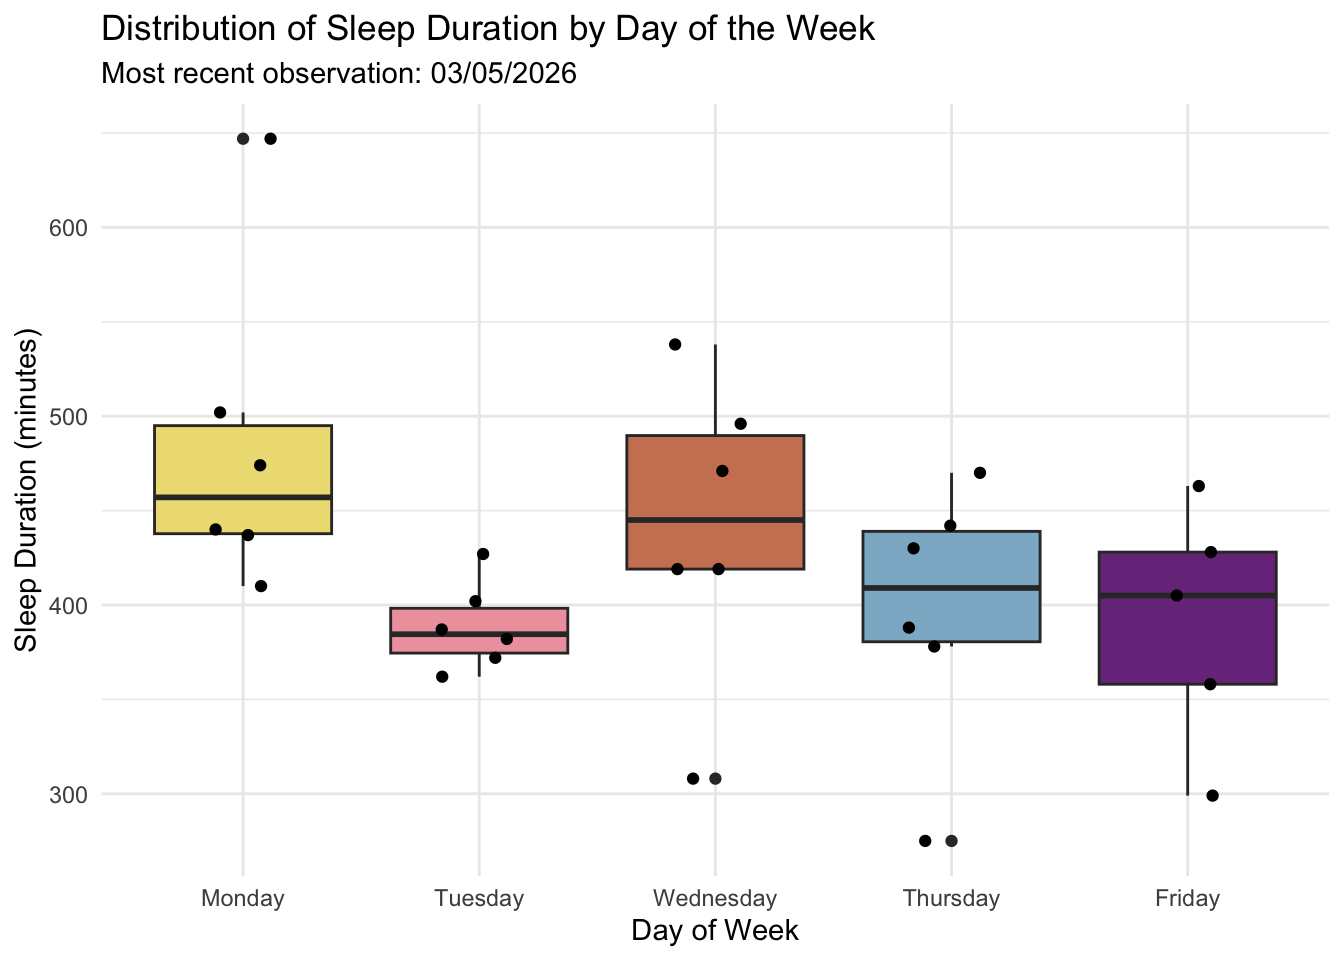
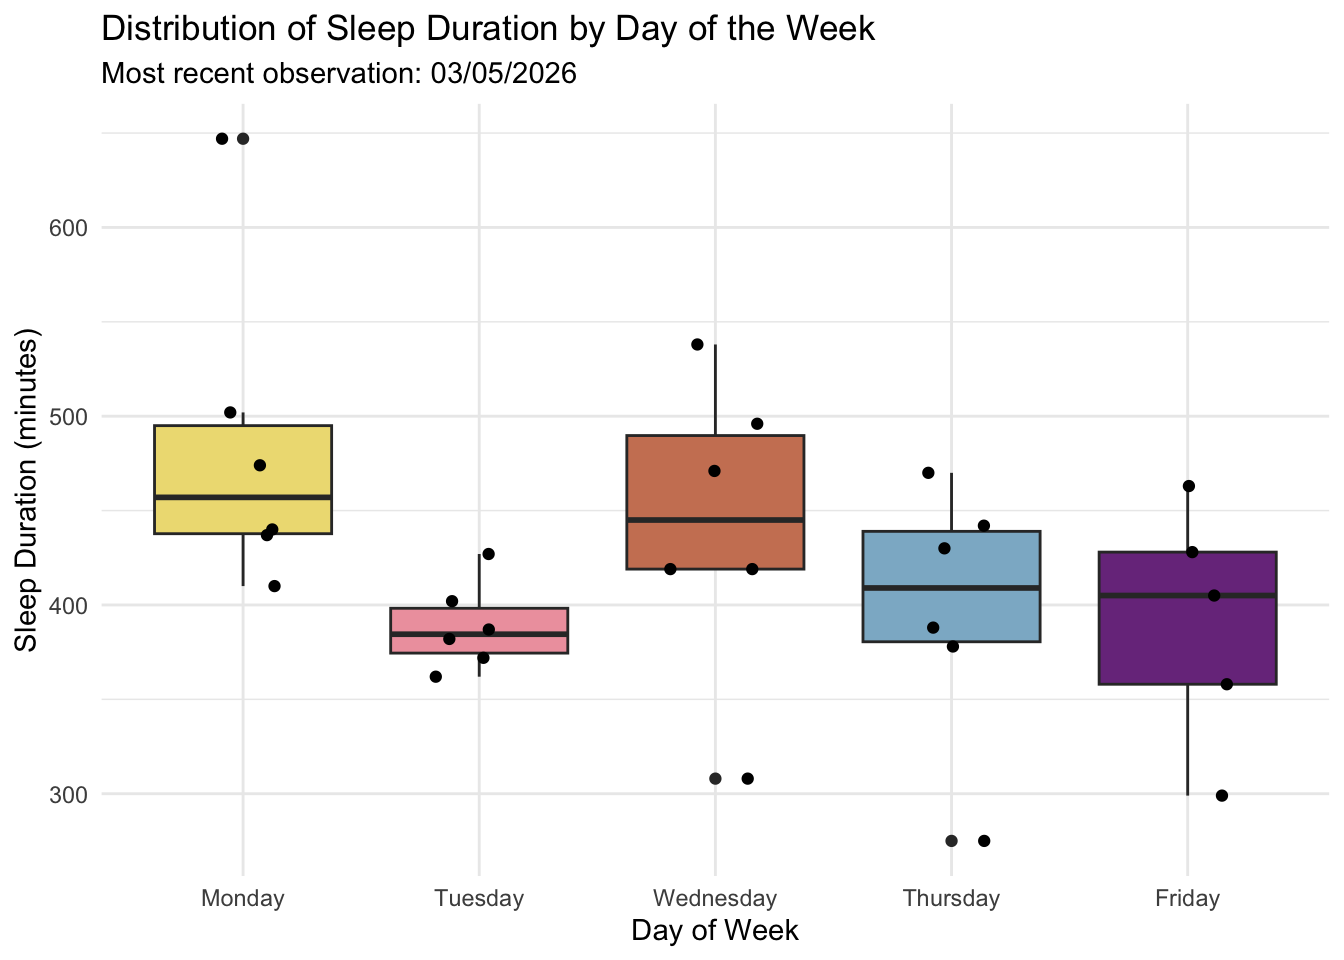
added a table of contents to the upper right corner

diff --git a/code/homework-03-script.html b/code/homework-03-script.html
@@ -71,6 +71,7 @@ pre > code.sourceCode > span > a:first-child::before { text-decoration: underlin
 <script src="homework-03-script_files/libs/bootstrap/bootstrap.min.js"></script>
 <link href="homework-03-script_files/libs/bootstrap/bootstrap-icons.css" rel="stylesheet">
 <link href="homework-03-script_files/libs/bootstrap/bootstrap-81267100e462c21b3d6c0d5bf76a3417.min.css" rel="stylesheet" append-hash="true" id="quarto-bootstrap" data-mode="light">
+<style>html{ scroll-behavior: smooth; }</style>
 
   <script src="https://cdnjs.cloudflare.com/polyfill/v3/polyfill.min.js?features=es6"></script>
   <script src="https://cdn.jsdelivr.net/npm/mathjax@3/es5/tex-chtml-full.js" type="text/javascript"></script>
@@ -104,10 +105,49 @@ window.Quarto = {
 
 </head>
 
-<body class="fullcontent quarto-light">
+<body class="quarto-light">
 
 <div id="quarto-content" class="page-columns page-rows-contents page-layout-article">
-
+<div id="quarto-margin-sidebar" class="sidebar margin-sidebar">
+  <nav id="TOC" role="doc-toc" class="toc-active">
+    <h2 id="toc-title">Table of contents</h2>
+   
+  <ul>
+  <li><a href="#part-1.-set-up-tasks" id="toc-part-1.-set-up-tasks" class="nav-link active" data-scroll-target="#part-1.-set-up-tasks">Part 1. Set up tasks</a></li>
+  <li><a href="#part-2.-problems" id="toc-part-2.-problems" class="nav-link" data-scroll-target="#part-2.-problems">Part 2. Problems</a>
+  <ul class="collapse">
+  <li><a href="#problem-1.-slough-soil-salinity" id="toc-problem-1.-slough-soil-salinity" class="nav-link" data-scroll-target="#problem-1.-slough-soil-salinity">Problem 1. Slough soil salinity</a>
+  <ul class="collapse">
+  <li><a href="#a." id="toc-a." class="nav-link" data-scroll-target="#a.">a.</a></li>
+  <li><a href="#b." id="toc-b." class="nav-link" data-scroll-target="#b.">b.</a></li>
+  <li><a href="#c." id="toc-c." class="nav-link" data-scroll-target="#c.">c.</a></li>
+  <li><a href="#d." id="toc-d." class="nav-link" data-scroll-target="#d.">d.</a></li>
+  <li><a href="#e." id="toc-e." class="nav-link" data-scroll-target="#e.">e.</a></li>
+  <li><a href="#f." id="toc-f." class="nav-link" data-scroll-target="#f.">f.</a></li>
+  </ul></li>
+  <li><a href="#problem-2.-personal-data" id="toc-problem-2.-personal-data" class="nav-link" data-scroll-target="#problem-2.-personal-data">Problem 2. Personal data</a>
+  <ul class="collapse">
+  <li><a href="#a.-1" id="toc-a.-1" class="nav-link" data-scroll-target="#a.-1">a.</a></li>
+  <li><a href="#b.-1" id="toc-b.-1" class="nav-link" data-scroll-target="#b.-1">b.</a></li>
+  </ul></li>
+  <li><a href="#problem-3.-affective-visualization" id="toc-problem-3.-affective-visualization" class="nav-link" data-scroll-target="#problem-3.-affective-visualization">Problem 3. Affective visualization</a>
+  <ul class="collapse">
+  <li><a href="#a.-2" id="toc-a.-2" class="nav-link" data-scroll-target="#a.-2">a.</a></li>
+  <li><a href="#b.-2" id="toc-b.-2" class="nav-link" data-scroll-target="#b.-2">b.</a></li>
+  <li><a href="#c.-1" id="toc-c.-1" class="nav-link" data-scroll-target="#c.-1">c.</a></li>
+  <li><a href="#d.-1" id="toc-d.-1" class="nav-link" data-scroll-target="#d.-1">d.</a></li>
+  <li><a href="#e.-1" id="toc-e.-1" class="nav-link" data-scroll-target="#e.-1">e.</a></li>
+  </ul></li>
+  <li><a href="#problem-4.-statistical-critique" id="toc-problem-4.-statistical-critique" class="nav-link" data-scroll-target="#problem-4.-statistical-critique">Problem 4. Statistical critique</a>
+  <ul class="collapse">
+  <li><a href="#b.-3" id="toc-b.-3" class="nav-link" data-scroll-target="#b.-3">b.</a></li>
+  <li><a href="#c.-2" id="toc-c.-2" class="nav-link" data-scroll-target="#c.-2">c.</a></li>
+  <li><a href="#d.-2" id="toc-d.-2" class="nav-link" data-scroll-target="#d.-2">d.</a></li>
+  </ul></li>
+  </ul></li>
+  </ul>
+</nav>
+</div>
 <main class="content" id="quarto-document-content">
 
 <header id="title-block-header" class="quarto-title-block default">
@@ -367,7 +407,7 @@ sample estimates:
 <p><img src="images/clipboard-1875232050.jpeg" class="img-fluid"></p>
 </section>
 <section id="c.-1" class="level3">
-<h3 class="anchored" data-anchor-id="c.-1">c.&nbsp;</h3>
+<h3 class="anchored" data-anchor-id="c.-1">c.</h3>
 <p>Since I didn’t want to crochet this before getting any feedback, the picture above in part b is a draft of what my product would look like. Please let me know any improvements or necessary changes I can make to it!</p>
 </section>
 <section id="d.-1" class="level3">
@@ -815,4 +855,5 @@ sample estimates:
 
 
 
+<script src="homework-03-script_files/libs/quarto-html/zenscroll-min.js"></script>
 </body></html>

diff --git a/code/homework-03-script_files/libs/quarto-html/zenscroll-min.js b/code/homework-03-script_files/libs/quarto-html/zenscroll-min.js
@@ -1,0 +1,1 @@
+!function(t,e){"function"==typeof define&&define.amd?define([],e()):"object"==typeof module&&module.exports?module.exports=e():function n(){document&&document.body?t.zenscroll=e():setTimeout(n,9)}()}(this,function(){"use strict";var t=function(t){return t&&"getComputedStyle"in window&&"smooth"===window.getComputedStyle(t)["scroll-behavior"]};if("undefined"==typeof window||!("document"in window))return{};var e=function(e,n,o){n=n||999,o||0===o||(o=9);var i,r=function(t){i=t},u=function(){clearTimeout(i),r(0)},c=function(t){return Math.max(0,e.getTopOf(t)-o)},a=function(o,i,c){if(u(),0===i||i&&i<0||t(e.body))e.toY(o),c&&c();else{var a=e.getY(),f=Math.max(0,o)-a,s=(new Date).getTime();i=i||Math.min(Math.abs(f),n),function t(){r(setTimeout(function(){var n=Math.min(1,((new Date).getTime()-s)/i),o=Math.max(0,Math.floor(a+f*(n<.5?2*n*n:n*(4-2*n)-1)));e.toY(o),n<1&&e.getHeight()+o<e.body.scrollHeight?t():(setTimeout(u,99),c&&c())},9))}()}},f=function(t,e,n){a(c(t),e,n)},s=function(t,n,i){var r=t.getBoundingClientRect().height,u=e.getTopOf(t)+r,s=e.getHeight(),l=e.getY(),d=l+s;c(t)<l||r+o>s?f(t,n,i):u+o>d?a(u-s+o,n,i):i&&i()},l=function(t,n,o,i){a(Math.max(0,e.getTopOf(t)-e.getHeight()/2+(o||t.getBoundingClientRect().height/2)),n,i)};return{setup:function(t,e){return(0===t||t)&&(n=t),(0===e||e)&&(o=e),{defaultDuration:n,edgeOffset:o}},to:f,toY:a,intoView:s,center:l,stop:u,moving:function(){return!!i},getY:e.getY,getTopOf:e.getTopOf}},n=document.documentElement,o=function(){return window.scrollY||n.scrollTop},i=e({body:document.scrollingElement||document.body,toY:function(t){window.scrollTo(0,t)},getY:o,getHeight:function(){return window.innerHeight||n.clientHeight},getTopOf:function(t){return t.getBoundingClientRect().top+o()-n.offsetTop}});if(i.createScroller=function(t,o,i){return e({body:t,toY:function(e){t.scrollTop=e},getY:function(){return t.scrollTop},getHeight:function(){return Math.min(t.clientHeight,window.innerHeight||n.clientHeight)},getTopOf:function(t){return t.offsetTop}},o,i)},"addEventListener"in window&&!window.noZensmooth&&!t(document.body)){var r="history"in window&&"pushState"in history,u=r&&"scrollRestoration"in history;u&&(history.scrollRestoration="auto"),window.addEventListener("load",function(){u&&(setTimeout(function(){history.scrollRestoration="manual"},9),window.addEventListener("popstate",function(t){t.state&&"zenscrollY"in t.state&&i.toY(t.state.zenscrollY)},!1)),window.location.hash&&setTimeout(function(){var t=i.setup().edgeOffset;if(t){var e=document.getElementById(window.location.href.split("#")[1]);if(e){var n=Math.max(0,i.getTopOf(e)-t),o=i.getY()-n;0<=o&&o<9&&window.scrollTo(0,n)}}},9)},!1);var c=new RegExp("(^|\\s)noZensmooth(\\s|$)");window.addEventListener("click",function(t){for(var e=t.target;e&&"A"!==e.tagName;)e=e.parentNode;if(!(!e||1!==t.which||t.shiftKey||t.metaKey||t.ctrlKey||t.altKey)){if(u){var n=history.state&&"object"==typeof history.state?history.state:{};n.zenscrollY=i.getY();try{history.replaceState(n,"")}catch(t){}}var o=e.getAttribute("href")||"";if(0===o.indexOf("#")&&!c.test(e.className)){var a=0,f=document.getElementById(o.substring(1));if("#"!==o){if(!f)return;a=i.getTopOf(f)}t.preventDefault();var s=function(){window.location=o},l=i.setup().edgeOffset;l&&(a=Math.max(0,a-l),r&&(s=function(){history.pushState({},"",o)})),i.toY(a,null,s)}}},!1)}return i});
